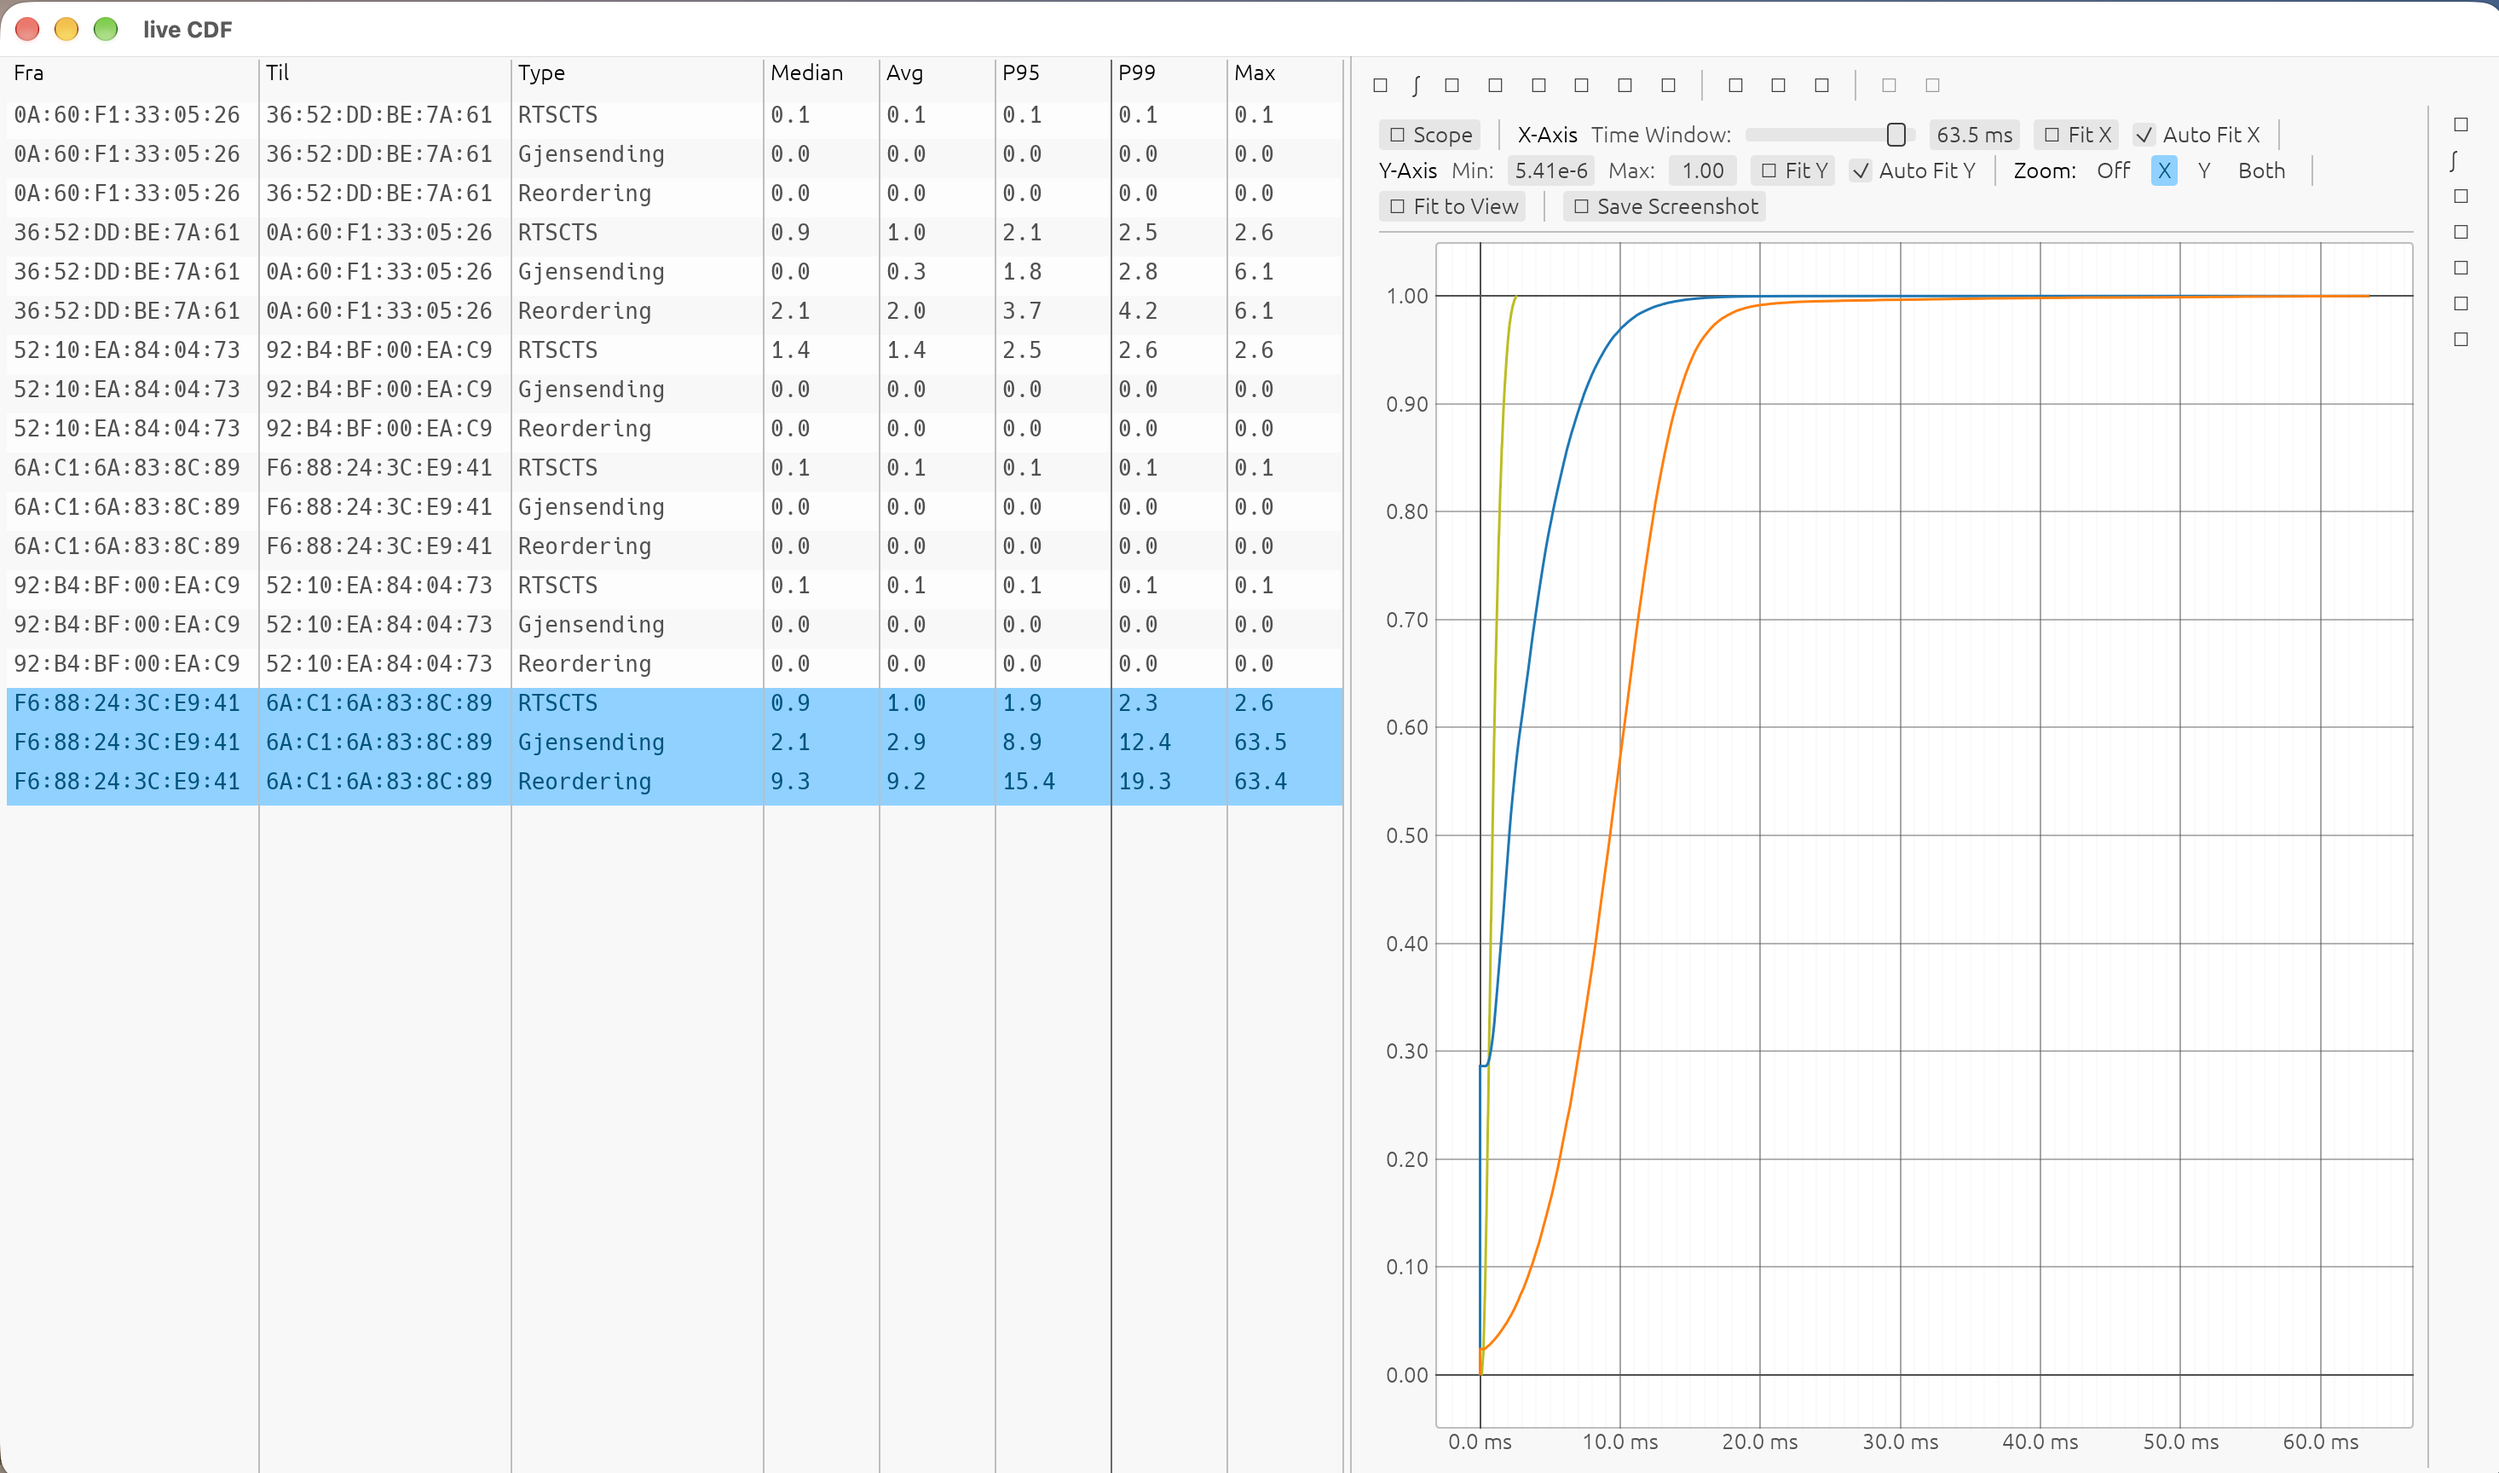
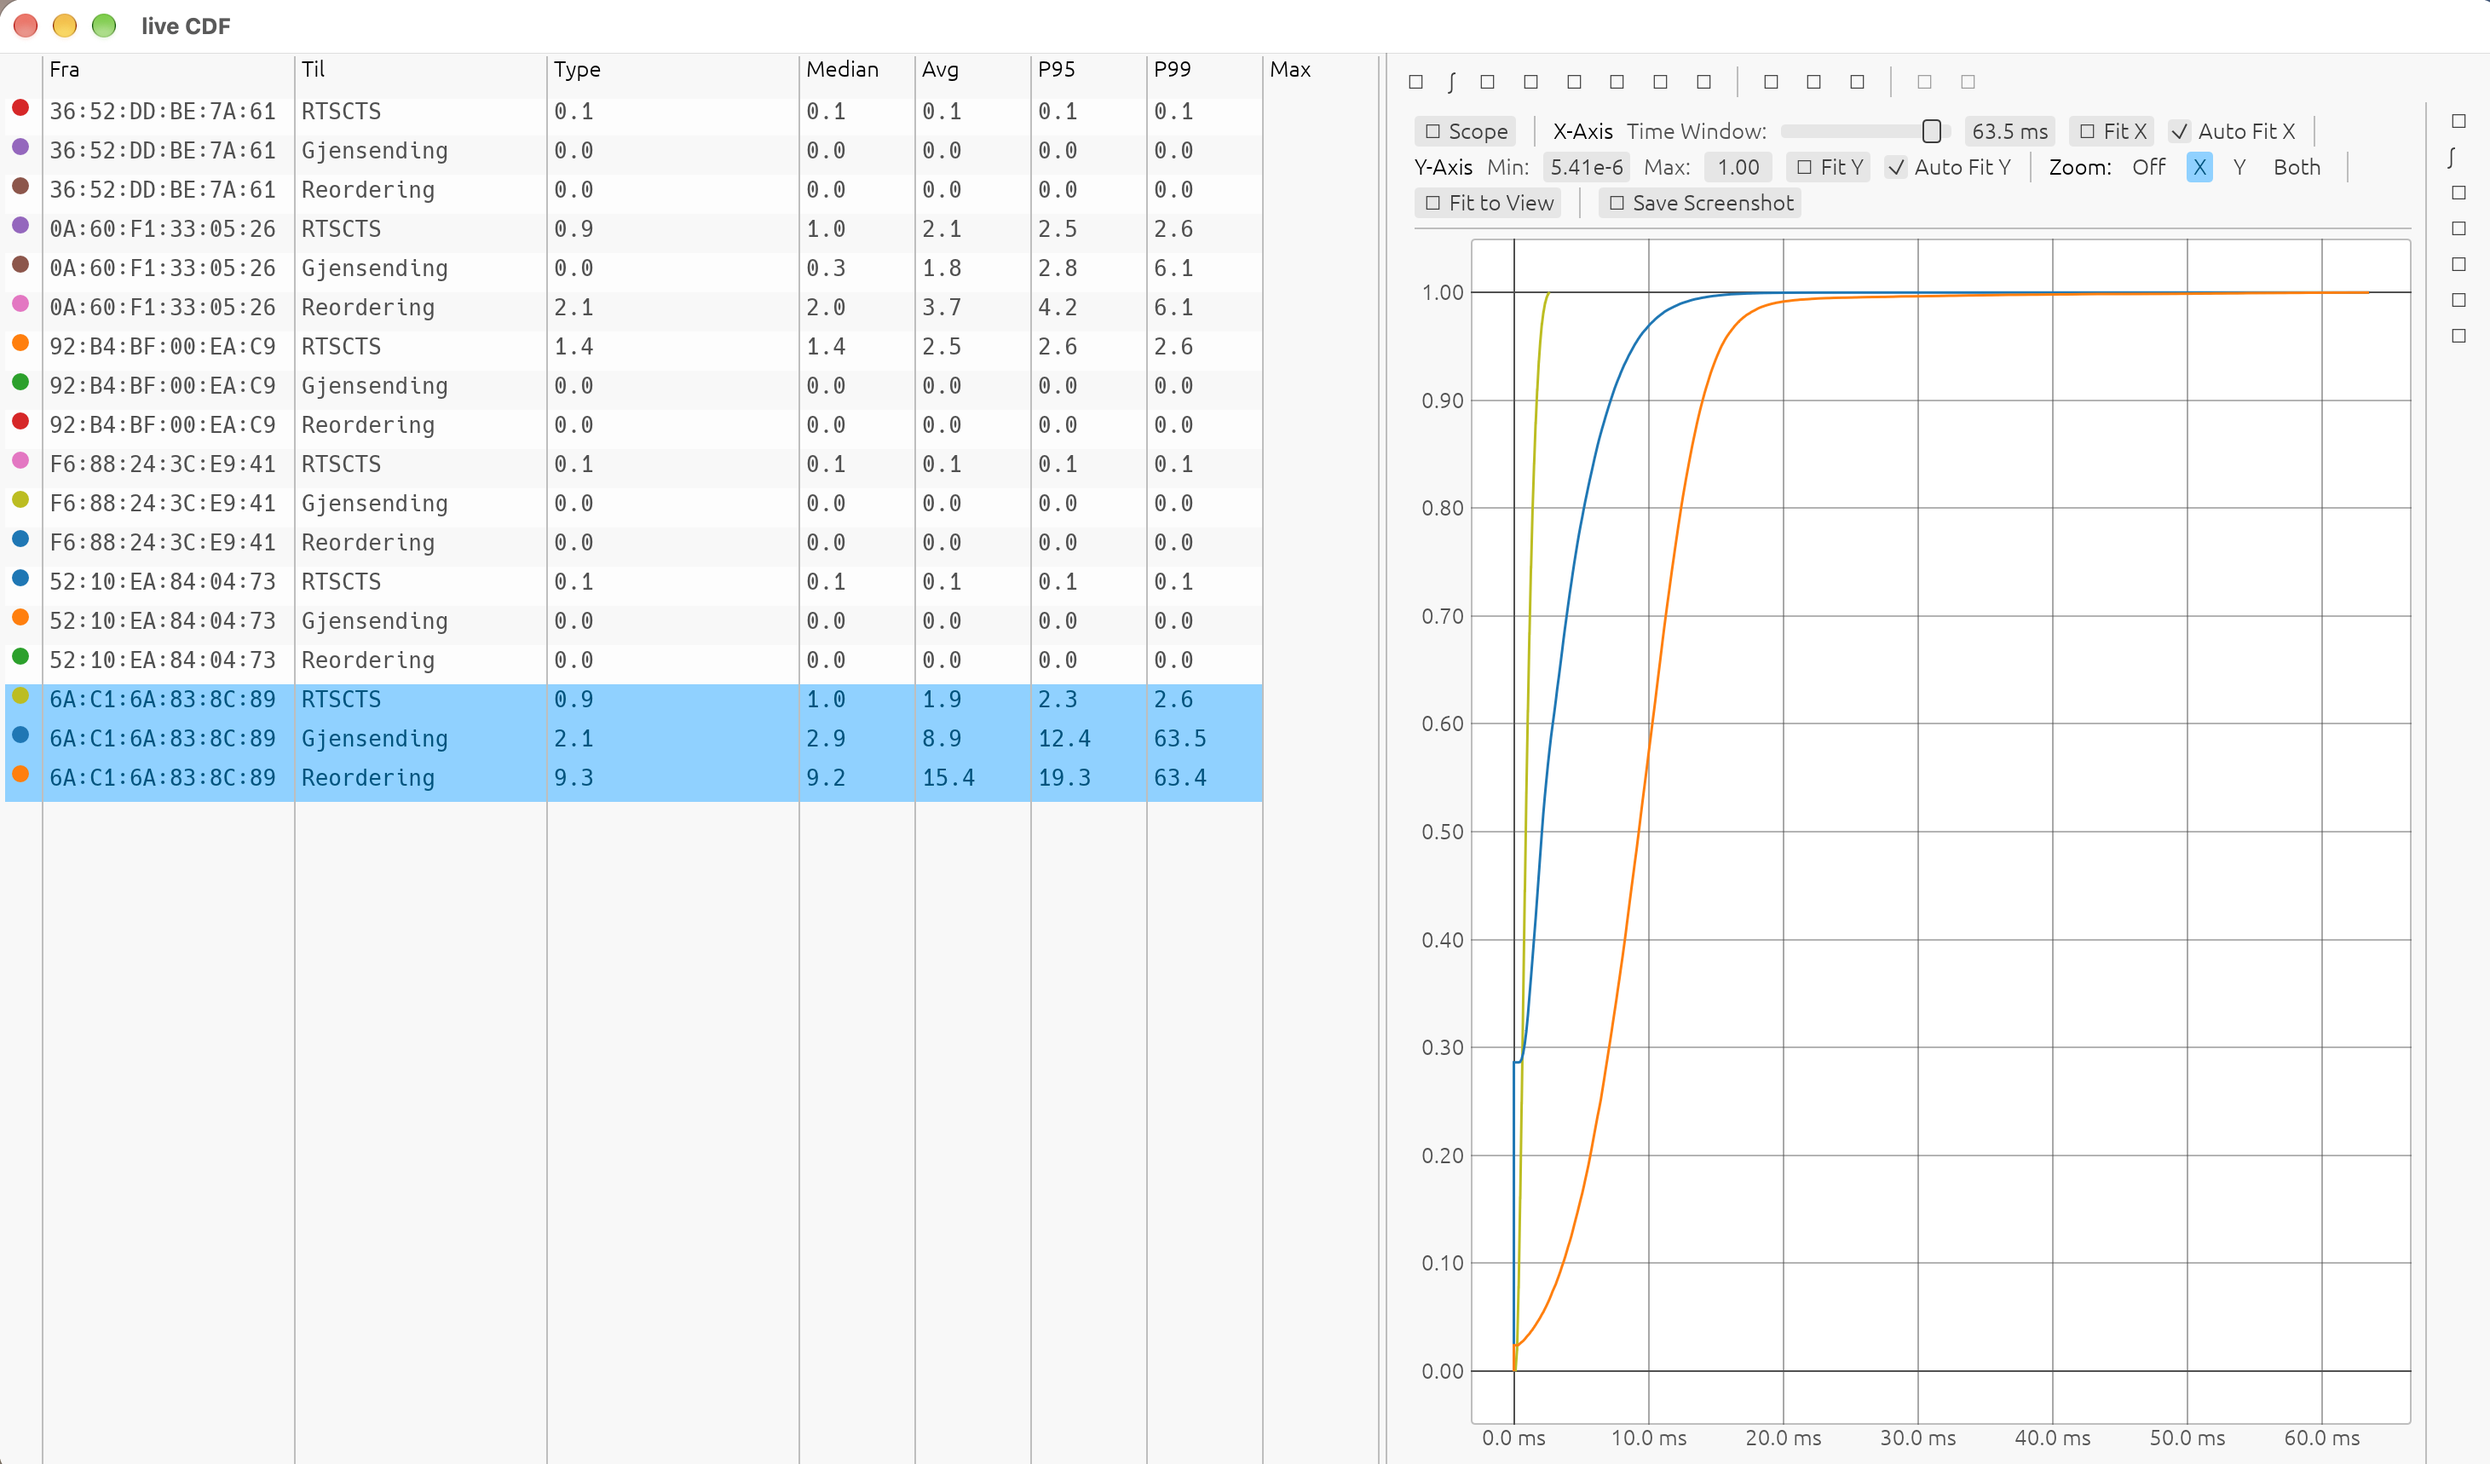
add farge til statestikken og bilde av ny graf

diff --git a/live_cdf/src/app.rs b/live_cdf/src/app.rs
@@ -8,6 +8,7 @@ use std::sync::mpsc::Receiver;
 use std::time::Duration;
 use felles::LatensType;
 use liveplot::config::ScopeButton;
+use liveplot::TraceRef;
 
 //tilstand gui, hva appen tar vare på mellom hver kjøring
 pub struct App {
@@ -24,6 +25,11 @@ fn ms(us: f64) -> String {
 //slik at tall står under hverandre med likt mellomrom
 fn tall(ui: &mut egui::Ui, tekst: String) {
     ui.monospace(tekst);
+}
+
+fn sirkel(ui: &mut egui::Ui, farge: egui::Color32){
+    let (rect,_) = ui.allocate_exact_size(egui::vec2(10.0,10.0),egui::Sense::hover());
+    ui.painter().circle_filled(rect.center(),5.0,farge);
 }
 
 //kjøres bare ved oppstart
@@ -74,13 +80,14 @@ impl App {
             .striped(true)
             .resizable(true)
             .sense(egui::Sense::click()) //gjør den trykkbar
-            .cell_layout(egui::Layout::left_to_right(egui::Align::LEFT))
+            .cell_layout(egui::Layout::left_to_right(egui::Align::Center))
+            .column(Column::exact(14.0))//farge
             .column(Column::auto().at_least(140.0)) // Fra
             .column(Column::auto().at_least(140.0)) // Til
             .column(Column::auto().at_least(140.0)) // Type
             .columns(Column::auto().at_least(60.0), 5) // Median, Avg, P95, P99, Max
             .header(22.0, |mut header| {
-                for tittel in ["Fra", "Til","Type", "Median", "Avg", "P95", "P99", "Max"] {
+                for tittel in ["","Fra", "Til","Type", "Median", "Avg", "P95", "P99", "Max"] {
                     header.col(|ui| {
                         ui.strong(tittel);
                     });
@@ -89,8 +96,16 @@ impl App {
             .body(|mut body| {
                 for ((par,typ), m) in &self.stats_map {
                     let s = &m.pairstats;
+                    let farge = self.panel.traces_data
+                        .get_trace(&TraceRef::from(m.trace.name.as_str()))
+                        .map(|t| t.look.color);
                     body.row(20.0, |mut row| {
                         row.set_selected(self.valgte.contains(par));
+                        row.col(|ui| {
+                            if let Some(f) = farge{
+                                sirkel(ui, f);
+                            }
+                        });
                         row.col(|ui| {
                             ui.monospace(&par.0);
                         });
